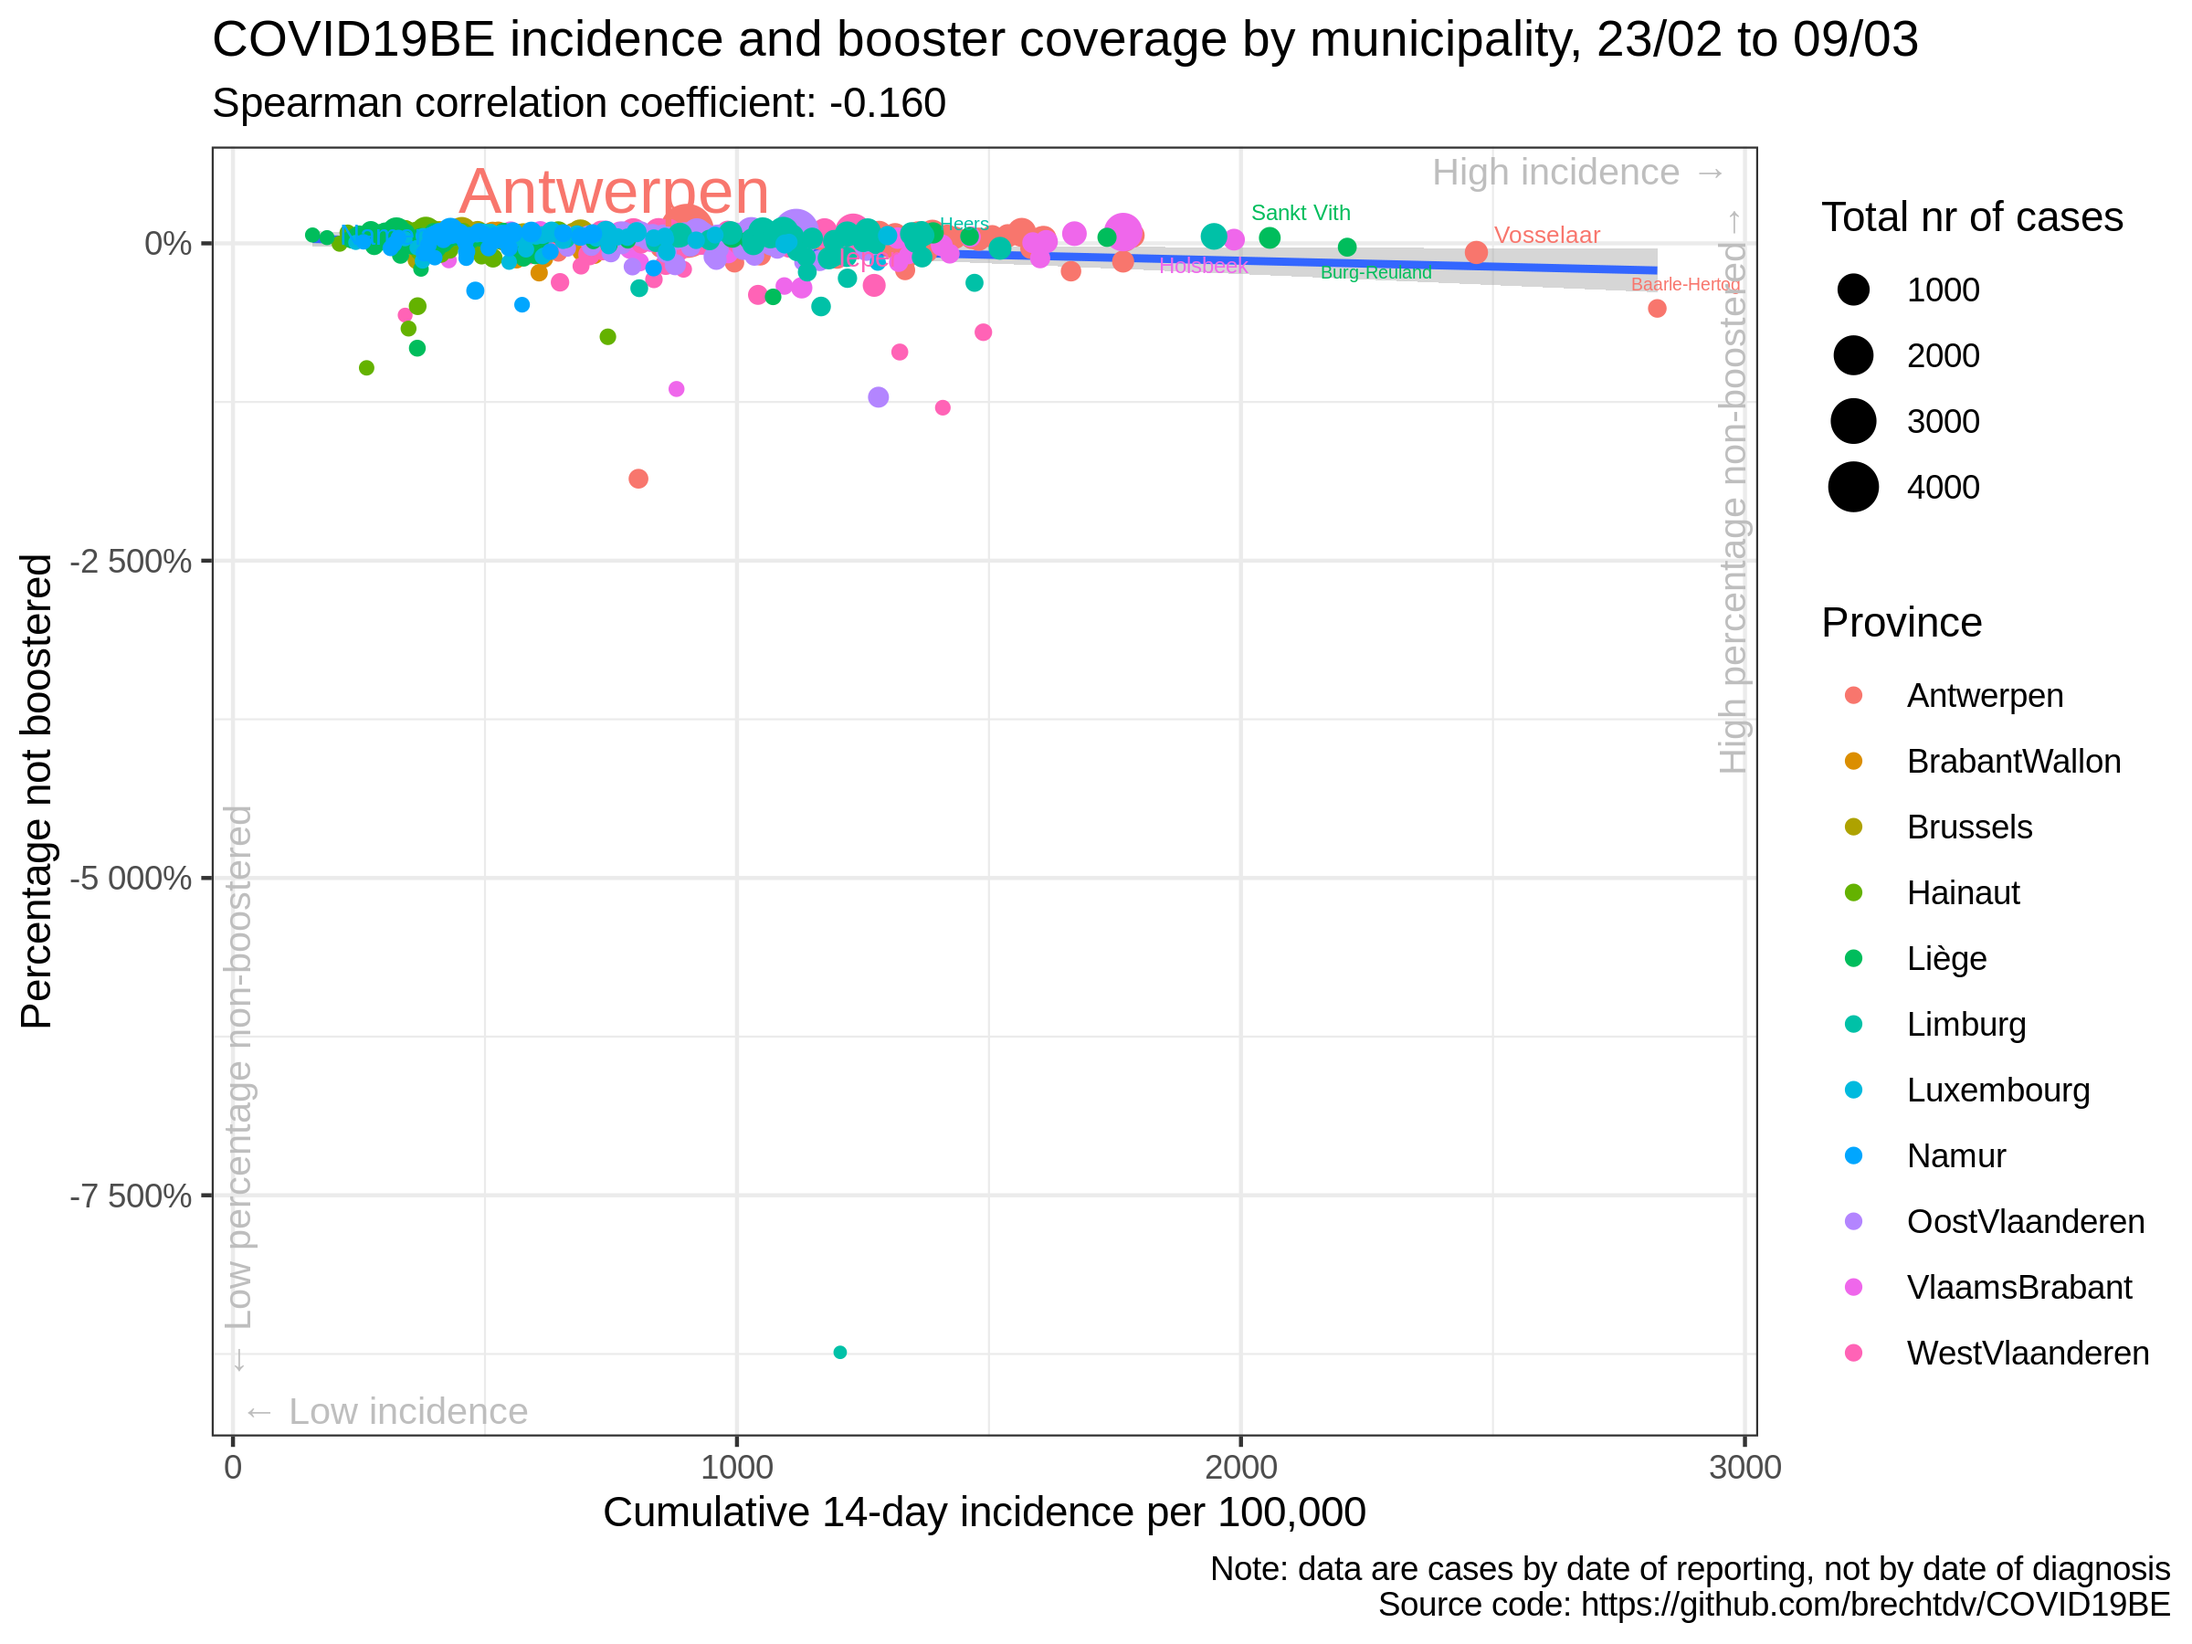
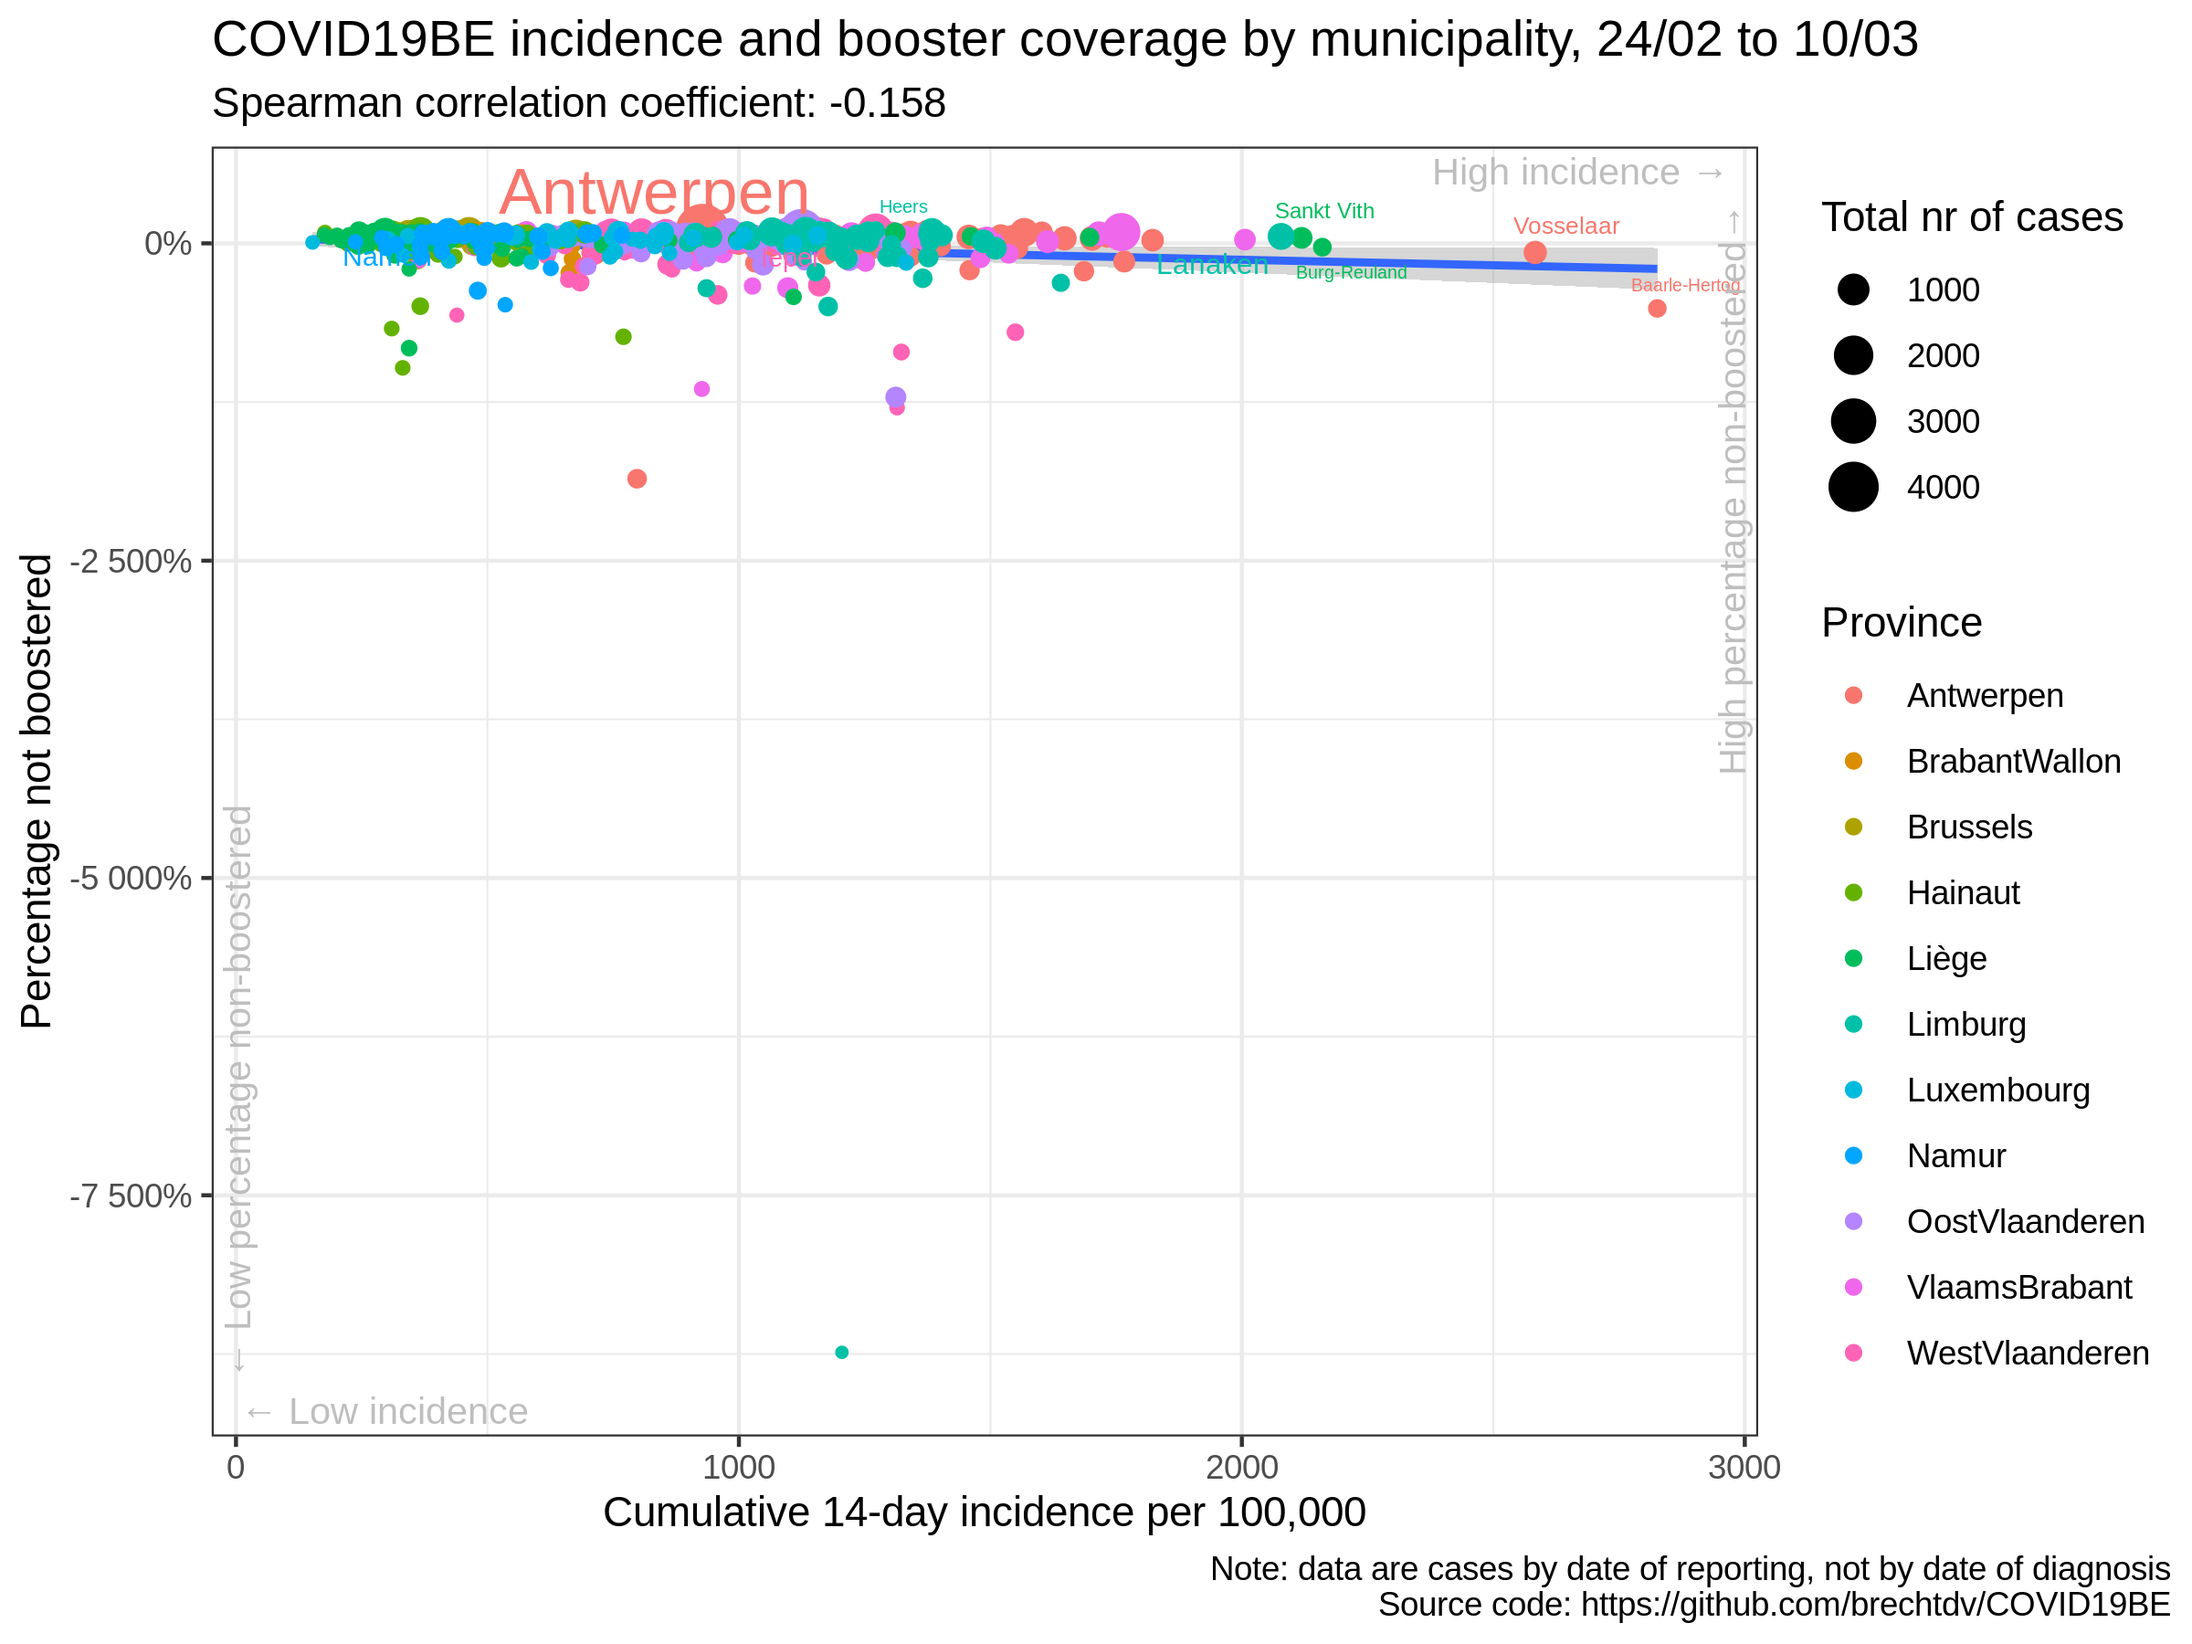
update situation

diff --git a/vaccination/README.md b/vaccination/README.md
@@ -17,35 +17,35 @@
 
 |                | estimate.rho | p.value |
 | :------------- | -----------: | ------: |
-| Antwerpen      |        0.024 |   0.846 |
-| BrabantWallon  |      \-0.266 |   0.180 |
-| Brussels       |        0.118 |   0.631 |
-| Hainaut        |      \-0.078 |   0.523 |
-| Liège          |      \-0.230 |   0.036 |
-| Limburg        |      \-0.124 |   0.434 |
-| Luxembourg     |      \-0.090 |   0.558 |
-| Namur          |        0.116 |   0.494 |
-| OostVlaanderen |      \-0.096 |   0.464 |
-| VlaamsBrabant  |      \-0.081 |   0.521 |
-| WestVlaanderen |        0.033 |   0.794 |
-| Belgium        |      \-0.105 |   0.012 |
+| Antwerpen      |        0.031 |   0.801 |
+| BrabantWallon  |      \-0.274 |   0.166 |
+| Brussels       |        0.139 |   0.570 |
+| Hainaut        |      \-0.123 |   0.313 |
+| Liège          |      \-0.182 |   0.098 |
+| Limburg        |      \-0.105 |   0.506 |
+| Luxembourg     |      \-0.082 |   0.595 |
+| Namur          |        0.123 |   0.468 |
+| OostVlaanderen |      \-0.099 |   0.450 |
+| VlaamsBrabant  |      \-0.069 |   0.582 |
+| WestVlaanderen |        0.062 |   0.627 |
+| Belgium        |      \-0.103 |   0.013 |
 
 ### Correlation cumulative incidence vs booster rate
 
 |                | estimate.rho | p.value |
 | :------------- | -----------: | ------: |
-| Antwerpen      |        0.017 |   0.889 |
-| BrabantWallon  |      \-0.251 |   0.206 |
-| Brussels       |        0.135 |   0.580 |
-| Hainaut        |      \-0.092 |   0.453 |
-| Liège          |      \-0.228 |   0.038 |
-| Limburg        |      \-0.109 |   0.493 |
-| Luxembourg     |      \-0.078 |   0.615 |
-| Namur          |        0.118 |   0.485 |
-| OostVlaanderen |      \-0.093 |   0.477 |
-| VlaamsBrabant  |      \-0.109 |   0.387 |
-| WestVlaanderen |        0.035 |   0.783 |
-| Belgium        |      \-0.160 |   0.000 |
+| Antwerpen      |        0.022 |   0.860 |
+| BrabantWallon  |      \-0.256 |   0.197 |
+| Brussels       |        0.154 |   0.527 |
+| Hainaut        |      \-0.135 |   0.269 |
+| Liège          |      \-0.178 |   0.104 |
+| Limburg        |      \-0.096 |   0.546 |
+| Luxembourg     |      \-0.067 |   0.663 |
+| Namur          |        0.124 |   0.463 |
+| OostVlaanderen |      \-0.095 |   0.471 |
+| VlaamsBrabant  |      \-0.095 |   0.448 |
+| WestVlaanderen |        0.062 |   0.625 |
+| Belgium        |      \-0.158 |   0.000 |
 
 ### Data source
 
